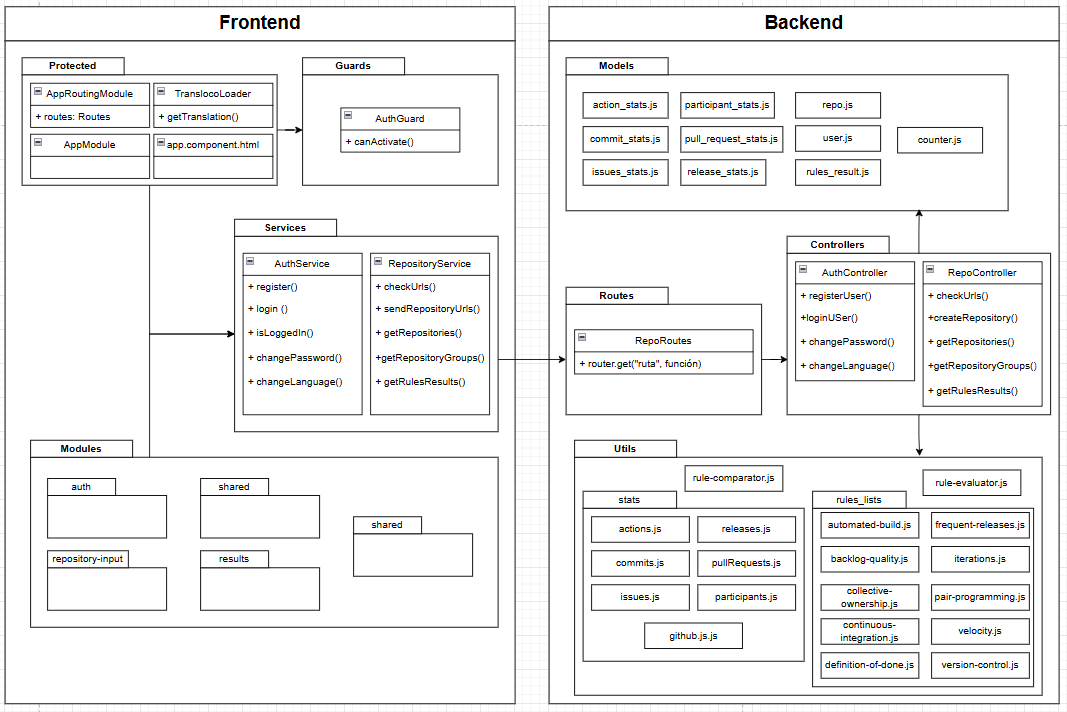
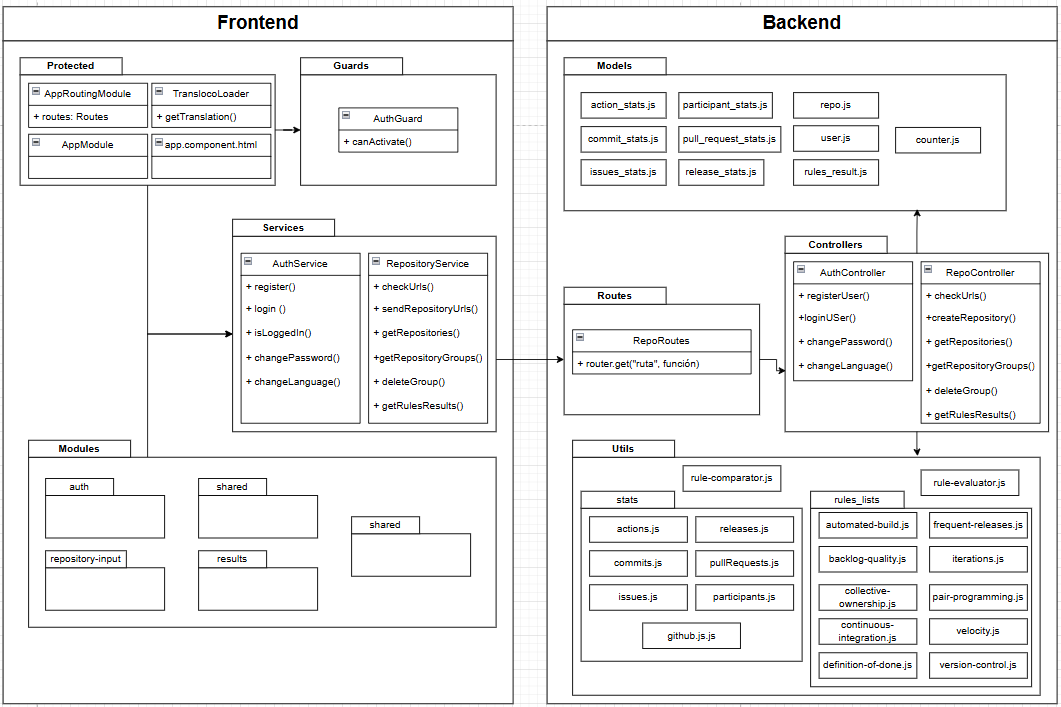
Añadida opción de borrar grupos #63
Y hechos arreglos menores

Changed region(s): [[0.0, 0.0, 1.0, 1.0], [0.1866, 0.7468, 0.311, 0.8091], [0.3421, 0.8091, 0.4354, 0.8402]]

diff --git a/src/frontend/src/app/modules/repository-input/repository-input.component.html b/src/frontend/src/app/modules/repository-input/repository-input.component.html
@@ -2,7 +2,7 @@
   <form [formGroup]="repositoryForm" class="content">
 
     <div class="url_container">
-      <label class="input_label_2">{{'messages.input_main_url'| transloco}}</label>
+      <label for="mainRepositoryUrl" class="input_label_2">{{'messages.input_main_url'| transloco}}</label>
       <div class="url_input_container">
         <input matInput id="mainRepositoryUrl" formControlName="mainRepositoryUrl" type="text"
           placeholder="{{'labels.url_format' | transloco}}" class="url_input">
@@ -22,7 +22,7 @@
 
     <div class="url_container" style="margin-top: 3rem;">
       <div style="display: flex; justify-content: space-between; align-items: center;">
-        <label class="input_label_2">{{'messages.input_references_url'| transloco}}</label>
+        <label for="sourceRepositoryUrl" class="input_label_2">{{'messages.input_references_url'| transloco}}</label>
         <button mat-button class="old_repos_button" (click)="openPreviousReposModal()">{{ 'buttons.saved_repositories' |
           transloco }}</button>
       </div>
@@ -70,7 +70,7 @@
       </div>
       <div class="mandatory_parameters">
         <div class="url_container">
-          <label class="input_label_2">{{ 'parameters.days_number_short' | transloco }}:</label>
+          <label for="averageDays" class="input_label_2">{{ 'parameters.days_number_short' | transloco }}:</label>
           <input id="averageDays" formControlName="averageDays" type="number" class="number_input">
           <mat-error *ngIf="daysNumberError" style="color: red; margin-top: 1rem;">
             {{ 'errors.natural_days_number_error' | transloco }}
@@ -78,17 +78,17 @@
         </div>
 
         <div style="display: flex; flex-direction: column;">
-          <label class="input_label_2">{{ 'parameters.analysis_mode' | transloco }}</label>
+          <label for="fullTimeAnalysis" class="input_label_2">{{ 'parameters.analysis_mode' | transloco }}</label>
           <div>
             <input id="fullTimeAnalysis" type="radio" [value]="false" name="useTimeIntervals"
               formControlName="useTimeIntervals">
-            <label class="input_label" for="male">{{ 'parameters.full_analysis' | transloco }}</label>
+            <label class="input_label" for="fullTimeAnalysis">{{ 'parameters.full_analysis' | transloco }}</label>
           </div>
 
           <div>
             <input id="timeIntervalsAnalysis" type="radio" [value]="true" name="useTimeIntervals"
               formControlName="useTimeIntervals">
-            <label class="input_label" for="female">{{ 'parameters.intervals_analysis' | transloco }}</label>
+            <label class="input_label" for="timeIntervalsAnalysis">{{ 'parameters.intervals_analysis' | transloco }}</label>
           </div>
         </div>
       </div>
@@ -99,20 +99,20 @@
       <div class="optional_parameters">
         <div
           style="width: 100%; background-color: #212121; border-radius: 1rem; display: flex; flex-direction: column;">
-          <label class="input_label_3" style="align-self: center; margin: 1rem;">
+          <label for="useAbsolutes" class="input_label_3" style="align-self: center; margin: 1rem;">
             {{ 'parameters.intervals_type' | transloco }}
           </label>
           <div style="display: flex; justify-content: space-around;">
             <div>
               <input id="useAbsolutes" type="radio" [value]="false" name="useRelativeDates"
                 formControlName="useRelativeDates">
-              <label class="input_label" for="female">{{ 'parameters.absolute_type' | transloco }}</label>
+              <label class="input_label" for="useAbsolutes">{{ 'parameters.absolute_type' | transloco }}</label>
             </div>
 
             <div>
               <input id="useRelatives" type="radio" [value]="true" name="useRelativeDates"
                 formControlName="useRelativeDates">
-              <label class="input_label" for="male">{{ 'parameters.relative_type' | transloco }}</label>
+              <label class="input_label" for="useRelatives">{{ 'parameters.relative_type' | transloco }}</label>
             </div>
           </div>
           <br>
@@ -121,23 +121,23 @@
         <div
           style="margin-top: 2rem; background-color: #212121; border-radius: 1rem; display: flex; flex-direction: column;">
           <div style="display: flex; flex-direction: column; padding: 1rem;">
-            <label class="input_label_3" style="align-self: center;">
+            <span class="input_label_3" style="align-self: center;">
               {{ 'parameters.intervals_number' | transloco }}
-            </label>
-            <label *ngIf="repositoryForm.controls.useRelativeDates?.value == true" class="input_label"
+            </span>
+            <span *ngIf="repositoryForm.controls.useRelativeDates?.value == true" class="input_label"
               style="align-self: center;">
               {{ 'parameters.intervals_number_explanation' | transloco }}
-            </label>
-            <label *ngIf="repositoryForm.controls.useRelativeDates?.value == false" class="input_label"
+            </span>
+            <span *ngIf="repositoryForm.controls.useRelativeDates?.value == false" class="input_label"
               style="align-self: center;">
               {{ 'parameters.intervals_number_explanation_2' | transloco }}
-            </label>
+            </span>
           </div>
           <br>
 
           <div style="display: flex; justify-content: space-around; margin-bottom: 1rem;">
             <div class="url_container">
-              <label class="input_label">
+              <label for="startTimeInterval" class="input_label">
                 {{ 'parameters.start_interval' | transloco }}
                 <input id="startTimeInterval" formControlName="startTimeInterval" type="number" class="number_input" />
               </label>
@@ -146,7 +146,7 @@
               <mat-icon class="arrow_icon">arrow_forward</mat-icon>
             </div>
             <div class="url_container">
-              <label class="input_label">
+              <label for="endTimeInterval" class="input_label">
                 {{ 'parameters.end_interval' | transloco }}
                 <input id="endTimeInterval" formControlName="endTimeInterval" type="number" class="number_input" />
               </label>

diff --git a/src/frontend/src/app/modules/repository-input/repository-input.component.ts b/src/frontend/src/app/modules/repository-input/repository-input.component.ts
@@ -307,8 +307,47 @@ export class RepositoryInputComponent implements OnInit {
     this.closePreviousReposModal();
   }
 
-  deleteRepoGroup(groupToDelete: any): void {
-    this.previousRepoGroups = this.previousRepoGroups.filter(group => group !== groupToDelete);
+  deleteRepoGroup(group: any): void {
+
+    Swal.fire({
+      title: this.translocoService.translate('messages.delete_group_confirm'),
+      showDenyButton: true,
+      denyButtonText: this.translocoService.translate('buttons.no_go_back'),
+      confirmButtonText: this.translocoService.translate('buttons.confirm_delete_group'),
+      reverseButtons: true,
+      customClass: {
+        confirmButton: 'custom-success-button',
+        denyButton: 'custom-error-button'
+      }
+    }).then((result) => {
+      if (result.isConfirmed) {
+        this.repoService.deleteGroup(group.groupId).subscribe({
+          next: () => {
+            this.openPreviousReposModal()
+            Swal.fire({
+              title: this.translocoService.translate('messages.deleted_group_success'),
+              icon: 'success',
+              confirmButtonText: this.translocoService.translate('buttons.continue'),
+              customClass: {
+                confirmButton: 'custom-success-button'
+              }
+            });
+          },
+          error: (err) => {
+            Swal.fire({
+              title: this.translocoService.translate('errors.error'),
+              text: this.translocoService.translate('errors.deleted_group_error'),
+              icon: 'error',
+              confirmButtonText: this.translocoService.translate('buttons.try_again'),
+              customClass: {
+                confirmButton: 'custom-error-button'
+              }
+            });
+            this.loading = false;
+          }
+        });
+      } else if (result.isDenied) { }
+    });
   }
 
   changeParametersAplication() {

diff --git a/src/backend/controllers/repoController.js b/src/backend/controllers/repoController.js
@@ -371,9 +371,45 @@ const getRepositoryGroups = async (req, res) => {
   }
 };
 
+const deleteGroup = async (req, res) => {
+  const { username, groupId } = req.query;
+
+  if (!username || !groupId) {
+    return res.status(400).json({ message: "Faltan parámetros requeridos." });
+  }
+
+  try {
+    const user = await User.findOne({ username });
+    if (!user) {
+      return res.status(404).json({ message: "Usuario no encontrado." });
+    }
+
+    const numericGroupId = Number(groupId);
+
+    if (isNaN(numericGroupId)) {
+      return res.status(400).json({ message: "El groupId debe ser un número válido." });
+    }
+
+    const result = await Repository.deleteMany({ group: numericGroupId });
+
+    if (result.deletedCount === 0) {
+      return res.status(404).json({ message: "No se encontraron repositorios con ese groupId." });
+    }
+
+    res.status(200).json({
+      success: true,
+      message: `Grupo eliminado correctamente (${result.deletedCount} repositorios eliminados).`
+    });
+  } catch (error) {
+    logger.error("Error al eliminar el grupo: " + error.message);
+    res.status(500).json({ message: "Error al eliminar el grupo." });
+  }
+};
+
 module.exports = {
   getRepositories,
   getRepositoryGroups,
+  deleteGroup,
   getRulesResults,
   createRepository,
   checkUrls

diff --git a/src/backend/routes/repoRoutes.js b/src/backend/routes/repoRoutes.js
@@ -1,10 +1,11 @@
 const express = require("express");
 const router = express.Router();
-const { getRepositories, getRulesResults, createRepository, checkUrls, getRepositoryGroups} = require("../controllers/repoController");
+const { getRepositories, getRulesResults, createRepository, checkUrls, getRepositoryGroups, deleteGroup} = require("../controllers/repoController");
 const { registerUser, loginUser, changePassword,changeLanguage} = require("../controllers/authController");
 
 router.get("/repos", getRepositories);
 router.get("/repos/groups", getRepositoryGroups);
+router.delete("/repos/groups", deleteGroup);
 router.get("/rules", getRulesResults);
 router.post("/repos", createRepository);
 router.post('/repos/check-urls', checkUrls);

diff --git a/src/frontend/src/app/services/repository.service.ts b/src/frontend/src/app/services/repository.service.ts
@@ -12,7 +12,6 @@ export class RepositoryService {
   constructor(private http: HttpClient) { }
 
   checkUrls(payload: { main: string; examples: string[] }) {
-    console.log("a")
     return this.http.post<{ success: boolean }>(`${this.apiUrl}/repos/check-urls`, payload);
   }
 
@@ -31,6 +30,13 @@ export class RepositoryService {
     const username: any = localStorage.getItem('loggedUser');
     return this.http.get(`${this.apiUrl}/repos/groups`, {
       params: { username }
+    });
+  }
+
+  deleteGroup(groupId: string): Observable<any> {
+    const username: any = localStorage.getItem('loggedUser');
+    return this.http.delete(`${this.apiUrl}/repos/groups`, {
+      params: { username, groupId }
     });
   }
 

diff --git a/src/frontend/src/app/modules/shared/header/header-tabs/header-tabs.component.html b/src/frontend/src/app/modules/shared/header/header-tabs/header-tabs.component.html
@@ -1,8 +1,11 @@
 <div class="tabs">
-    <div class="tab" [ngClass]="{'selected_tab': tab === 'rules'}" (click)="tab = 'rules'">
+    <div class="tab" [ngClass]="{'selected_tab': tab === 'rules'}" tabindex="0" (click)="tab = 'rules'"
+        (keydown.enter)="tab = 'rules'" (keydown.space)="tab = 'rules'">
         {{ 'labels.agile_practices' | transloco }}
     </div>
-    <div class="tab" [ngClass]="{'selected_tab': tab === 'stats'}" (click)="tab = 'stats'">
+
+    <div class="tab" [ngClass]="{'selected_tab': tab === 'stats'}" tabindex="0" (click)="tab = 'stats'"
+        (keydown.enter)="tab = 'stats'" (keydown.space)="tab = 'stats'">
         {{ 'labels.quality_metrics' | transloco }}
     </div>
 </div>

diff --git a/src/frontend/src/app/modules/auth/new-password/new-password.component.ts b/src/frontend/src/app/modules/auth/new-password/new-password.component.ts
@@ -18,7 +18,6 @@ export class NewPasswordComponent {
   constructor(private authService: AuthService, private translocoService: TranslocoService) {}
 
   onPasswordChange(data: { username: string; password: string; repeatPassword: string }) {
-    console.log('Datos recibidos para cambio de contraseña:', data);
     let payload;
     payload = {
       username: data.username,

diff --git a/src/frontend/src/app/modules/auth/register/register.component.ts b/src/frontend/src/app/modules/auth/register/register.component.ts
@@ -18,7 +18,6 @@ export class RegisterComponent {
   constructor(private authService: AuthService, private translocoService: TranslocoService) { }
 
   onRegisterSubmit(data: { username: string; password: string; repeatPassword?: string }) {
-    console.log('Datos recibidos en Registro:', data);
     let payload;
     payload = {
       username: data.username,

diff --git a/src/frontend/src/app/modules/auth/login/login.component.ts b/src/frontend/src/app/modules/auth/login/login.component.ts
@@ -18,7 +18,6 @@ export class LoginComponent {
   constructor(private authService: AuthService, private translocoService: TranslocoService) { }
 
   onLoginSubmit(data: { username: string; password: string }) {
-    console.log('Datos recibidos en Login:', data);
 
     const payload = {
       username: data.username,

diff --git a/src/frontend/src/app/services/auth.service.ts b/src/frontend/src/app/services/auth.service.ts
@@ -20,7 +20,6 @@ export class AuthService {
   }
 
   isLoggedIn(): boolean {
-    console.log(!!localStorage.getItem('loggedUser'))
     return !!localStorage.getItem('loggedUser');
   }
 
